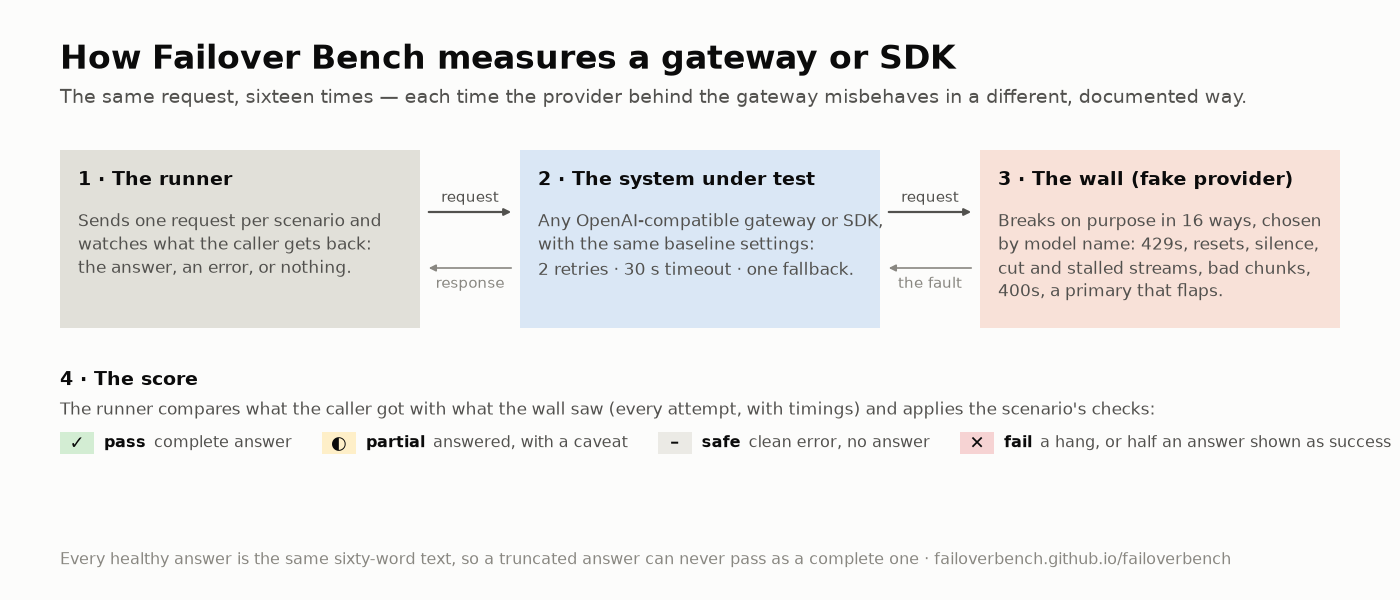
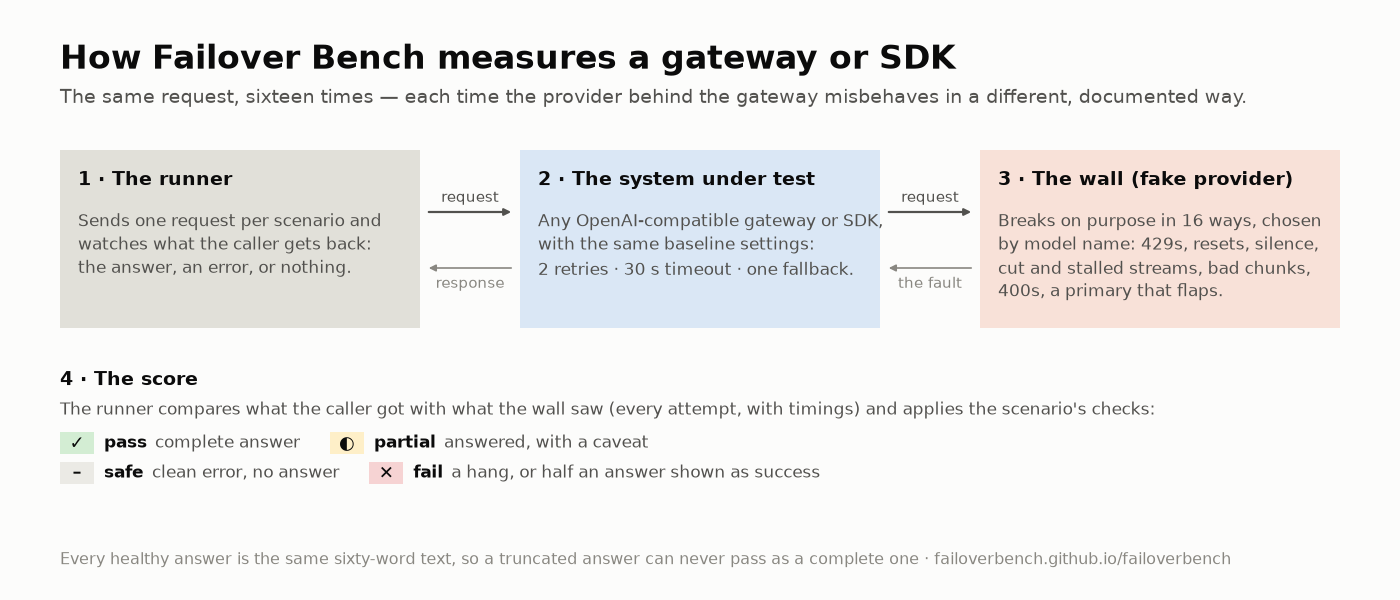
chart: measured layout; og:image is the explainer
Claude-Session: https://claude.ai/code/session_01T7EoP4NsJTux1cUPvqUQk8

Changed region(s): [[0.0614, 0.72, 0.5836, 0.81], [0.4914, 0.72, 1.0, 0.78]]

diff --git a/docs/index.html b/docs/index.html
@@ -2,7 +2,7 @@
 <title>Failover Bench — scorecard 2026-09-12</title>
 <meta property='og:title' content='Failover Bench — scorecard 2026-09-12'>
 <meta property='og:description' content='How LLM gateways and SDKs behave when the provider behind them misbehaves: sixteen documented faults, one fake provider, every result reproducible with one command.'>
-<meta property='og:image' content='https://failoverbench.github.io/failoverbench/scorecard.png'>
+<meta property='og:image' content='https://failoverbench.github.io/failoverbench/how-it-works.png'>
 <meta name='twitter:card' content='summary_large_image'>
 <link rel='preconnect' href='https://fonts.googleapis.com'>
 <link rel='stylesheet' href='https://fonts.googleapis.com/css2?family=Barlow+Condensed:wght@600;700&family=IBM+Plex+Sans:wght@400;600&family=IBM+Plex+Mono&display=swap'>
@@ -1219,5 +1219,5 @@ a{color:var(--accent-ink)}footer{margin-top:40px;padding-top:14px;border-top:1px
 <li>wall log: 0.00s fb-s16-503-persistent #1 -&gt; 503; 0.60s fb-s16-503-persistent #2 -&gt; 503; 1.75s fb-s16-503-persistent #3 -&gt; 503; 1.75s fb-ok #1 -&gt; 200 stream</li>
 </ul>
 </details>
-<footer>Results CC BY 4.0 · harness MIT · generated 2026-09-12 20:32 UTC from results/full · <a href='https://github.com/failoverbench/failoverbench/blob/main/METHODOLOGY.md'>methodology</a> · <a href='https://github.com/failoverbench/failoverbench/tree/main/results/full'>raw results</a></footer>
+<footer>Results CC BY 4.0 · harness MIT · generated 2026-09-12 20:45 UTC from results/full · <a href='https://github.com/failoverbench/failoverbench/blob/main/METHODOLOGY.md'>methodology</a> · <a href='https://github.com/failoverbench/failoverbench/tree/main/results/full'>raw results</a></footer>
 </div></body></html>

diff --git a/failoverbench/charts.py b/failoverbench/charts.py
@@ -90,7 +90,7 @@ SHORT = [  # (regex on system name, two-line column header)
     (r"^reference$", "Reference\nclient"),
     (r"^direct$", "No\ngateway\n(control)"),
     (r"^bifrost$", "Bifrost"),
-    (r"^dsh$", "DeepSeek\nHarness +\nplugin"),
+    (r"^dsh$", "DeepSeek\nHarness\n+ plugin"),
     (r"^langchain$", "LangChain\nfallbacks"),
     (r"^litellm-proxy$", "LiteLLM\nproxy"),
     (r"^litellm-router$", "LiteLLM\nRouter"),
@@ -141,9 +141,18 @@ def scorecard_png(results_dir: str, profile: str, catalogue_path: str, out: str,
         sent = _sentence_with(d["system"].get("notes") or "", "not scored here")
         if sent:
             notes.append(f"{_short(d['system']['name'], d['system']['label']).replace(chr(10), ' ')}: {sent}")
-    W = 1200
+    W = 1400
     probe = plt.figure(figsize=(W / 100, 1), dpi=100)
     note_lines = [_wrap(probe, n, 11.5, W - 120) for n in notes[:3]]
+    # Geometry is measured, never assumed: the label column fits the longest scenario title
+    # with a full margin, and the header font steps down until every line clears its column.
+    row_fs, head_fs, margin, pad = 12.0, 11.0, 60.0, 10.0
+    label_w = max(_measure(probe, f"{sc['id']}  {sc['title']}", row_fs) for sc in cat["scenarios"])
+    left = margin + label_w + 16
+    cw = (W - left - margin) / len(full)
+    heads = [_short(d["system"]["name"], d["system"]["label"]) for d in full]
+    while head_fs > 8.5 and max(_measure(probe, ln, head_fs) for h in heads for ln in h.split("\n")) > cw - pad:
+        head_fs -= 0.5
     plt.close(probe)
     n_lines = sum(len(x) for x in note_lines)
     notes_start = 268 + len(ids) * 54 + 18 + 70 + 34 + 4 * 30 + 24   # header + grid + totals + legend
@@ -155,24 +164,23 @@ def scorecard_png(results_dir: str, profile: str, catalogue_path: str, out: str,
     T = lambda x, y, s, **k: ax.text(x, y, s, **{**FONT, **k})  # noqa: E731
 
     # header
-    T(60, 78, "Failover Bench scorecard" + (f" — {edition}" if edition else ""), fontsize=30, fontweight="semibold", color=INK["primary"], va="center")
+    T(60, 78, "Failover Bench scorecard" + (f" — {edition}" if edition else ""), fontsize=30, fontweight="bold", color=INK["primary"], va="center")
     T(60, 122, f"{len(ids)} ways a provider can break × {len(full)} gateways and SDKs — one fake provider, one baseline setup",
       fontsize=14, color=INK["secondary"], va="center")
     T(60, 148, f"2 retries · 30 s timeout · one fallback · methodology v{cat.get('version')} · results as of {date_text} · "
       f"one-command repro and raw log for every cell", fontsize=12.5, color=INK["muted"], va="center")
 
     # grid geometry
-    left, top = 356, 268
-    ncol, nrow = len(names), len(ids)
-    cw, ch, gap = (W - left - 60) / ncol, 54, 2
+    top, nrow = 268, len(ids)
+    ch, gap = 54, 2
     # column headers (up to three short lines, bottom-aligned to the grid)
     for j, n in enumerate(names):
         cx = left + j * cw + cw / 2
-        T(cx, top - 14, _short(n, full[j]["system"]["label"]), fontsize=11, color=INK["primary"], ha="center", va="bottom", linespacing=1.15)
+        T(cx, top - 14, heads[j], fontsize=head_fs, color=INK["primary"], ha="center", va="bottom", linespacing=1.15)
     # rows
     for i, sid in enumerate(ids):
         y = top + i * ch
-        T(left - 16, y + ch / 2, f"{sid}  {titles[sid]}", fontsize=12, color=INK["primary"], ha="right", va="center")
+        T(left - 16, y + ch / 2, f"{sid}  {titles[sid]}", fontsize=row_fs, color=INK["primary"], ha="right", va="center")
         for j, n in enumerate(names):
             r = by[n].get(sid)
             v = r["verdict"] if r else "na"
@@ -183,8 +191,8 @@ def scorecard_png(results_dir: str, profile: str, catalogue_path: str, out: str,
                 T(x + cw / 2, y + ch / 2 + 1, glyph, fontsize=17, color=INK["primary"], ha="center", va="center", fontweight="bold")
     # totals row
     ty = top + nrow * ch + 18
-    ax.plot([left, W - 60], [ty - 8, ty - 8], color=INK["axis"], linewidth=1)
-    T(left - 16, ty + 16, "pass · partial · safe · fail", fontsize=11, color=INK["muted"], ha="right", va="center")
+    ax.plot([left, W - margin], [ty - 8, ty - 8], color=INK["axis"], linewidth=1)
+    T(left - 16, ty + 16, "pass · partial · safe · fail", fontsize=10.5, color=INK["muted"], ha="right", va="center")
     for j, n in enumerate(names):
         sm = full[j]["summary"]
         T(left + j * cw + cw / 2, ty + 16, f"{sm['pass']}·{sm['partial']}·{sm['safe']}·{sm['fail']}", fontsize=11,
@@ -192,13 +200,13 @@ def scorecard_png(results_dir: str, profile: str, catalogue_path: str, out: str,
 
     # legend
     ly = ty + 70
-    T(60, ly, "How to read a cell", fontsize=13, fontweight="semibold", color=INK["primary"], va="center")
+    T(60, ly, "How to read a cell", fontsize=13, fontweight="bold", color=INK["primary"], va="center")
     for k, v in enumerate(["pass", "partial", "safe", "fail"]):
         glyph, tint, chip, word, meaning = VERDICT[v]
         yy = ly + 34 + k * 30
         ax.add_patch(Rectangle((60, yy - 11), 34, 22, facecolor=tint, edgecolor="none"))
         T(77, yy + 1, glyph, fontsize=13, color=INK["primary"], ha="center", va="center", fontweight="bold")
-        T(108, yy, word, fontsize=13, fontweight="semibold", color=INK["primary"], va="center")
+        T(108, yy, word, fontsize=13, fontweight="bold", color=INK["primary"], va="center")
         T(190, yy, meaning, fontsize=13, color=INK["secondary"], va="center")
 
     # footnotes
@@ -261,7 +269,7 @@ def timeline_png(scenario_id: str, docs: list[dict], catalogue_path: str, out: s
     ax = fig.add_axes([0, 0, 1, 1]); ax.set_xlim(0, W); ax.set_ylim(H, 0); ax.axis("off")
     T = lambda x, y, s, **k: ax.text(x, y, s, **{**FONT, **k})  # noqa: E731
 
-    T(60, 62, headline or f"{scenario_id}: {sc['title']}", fontsize=24, fontweight="semibold", color=INK["primary"], va="center")
+    T(60, 62, headline or f"{scenario_id}: {sc['title']}", fontsize=24, fontweight="bold", color=INK["primary"], va="center")
     T(60, 100, f"{scenario_id} · {sc['fault']}", fontsize=13.5, color=INK["secondary"], va="center")
 
     px0, px1 = 330, W - 60
@@ -288,7 +296,7 @@ def timeline_png(scenario_id: str, docs: list[dict], catalogue_path: str, out: s
         m = r["metrics"]; v = r["verdict"]
         first, _, rest = label.partition("\n")
         two = bool(rest)
-        T(px0 - 18, y - (26 if two else 12), first, fontsize=13.5, fontweight="semibold", color=INK["primary"], ha="right", va="center")
+        T(px0 - 18, y - (26 if two else 12), first, fontsize=13.5, fontweight="bold", color=INK["primary"], ha="right", va="center")
         if two:
             T(px0 - 18, y - 6, rest, fontsize=12, color=INK["secondary"], ha="right", va="center")
         outcome = {"pass": "complete answer", "partial": "answered, with a caveat", "safe": "clean error, no answer",
@@ -303,15 +311,15 @@ def timeline_png(scenario_id: str, docs: list[dict], catalogue_path: str, out: s
             if s_["kind"] == "wait":  # label above the bar, anchored at its start
                 T(x0 + 2, y - 24, s_["label"], fontsize=11.5, color=INK["secondary"], ha="left", va="center")
             else:  # the outcome: to the right of the bar end, in primary ink
-                T(x1 + 8, y + 1, s_["label"], fontsize=12, color=INK["primary"], ha="left", va="center", fontweight="semibold")
+                T(x1 + 8, y + 1, s_["label"], fontsize=12, color=INK["primary"], ha="left", va="center", fontweight="bold")
         if m["outcome"] != "success":
             xe = xs(float(m["elapsed_s"]))
             ax.plot([xe, xe], [y - 18, y + 18], color=STATUS["critical"], linewidth=2.5, zorder=3)
             txt = f"client gave up · {float(m['elapsed_s']):.0f} s"
-            if xe + 9 + _measure(fig, txt, 12, "semibold") <= px1 + 30:
-                T(xe + 9, y + 1, txt, fontsize=12, color=INK["primary"], ha="left", va="center", fontweight="semibold")
+            if xe + 9 + _measure(fig, txt, 12, "bold") <= px1 + 30:
+                T(xe + 9, y + 1, txt, fontsize=12, color=INK["primary"], ha="left", va="center", fontweight="bold")
             else:
-                T(xe - 8, y + 26, txt, fontsize=12, color=INK["primary"], ha="right", va="center", fontweight="semibold")
+                T(xe - 8, y + 26, txt, fontsize=12, color=INK["primary"], ha="right", va="center", fontweight="bold")
 
     # legend (measured widths, no overlap)
     ly = base_y + 76
@@ -340,7 +348,7 @@ def explainer_png(out: str, n_faults: int = 16) -> str:
     fig.patch.set_facecolor(SURFACE)
     ax = fig.add_axes([0, 0, 1, 1]); ax.set_xlim(0, W); ax.set_ylim(H, 0); ax.axis("off")
     T = lambda x, y, s, **k: ax.text(x, y, s, **{**FONT, **k})  # noqa: E731
-    T(60, 60, "How Failover Bench measures a gateway or SDK", fontsize=24, fontweight="semibold", color=INK["primary"], va="center")
+    T(60, 60, "How Failover Bench measures a gateway or SDK", fontsize=24, fontweight="bold", color=INK["primary"], va="center")
     T(60, 98, "The same request, sixteen times — each time the provider behind the gateway misbehaves in a different, documented way.",
       fontsize=13.5, color=INK["secondary"], va="center")
 
@@ -352,7 +360,7 @@ def explainer_png(out: str, n_faults: int = 16) -> str:
     bw, bh, by = 360, 178, 150
     for x, title, body, fill in boxes:
         ax.add_patch(Rectangle((x, by), bw, bh, facecolor=fill, edgecolor="none"))
-        T(x + 18, by + 30, title, fontsize=14, fontweight="semibold", color=INK["primary"], va="center")
+        T(x + 18, by + 30, title, fontsize=14, fontweight="bold", color=INK["primary"], va="center")
         T(x + 18, by + 60, body, fontsize=12, color=INK["secondary"], va="top", linespacing=1.4)
     # arrows (request goes right, what came back goes left)
     for x0, x1 in ((420, 520), (880, 980)):
@@ -364,24 +372,36 @@ def explainer_png(out: str, n_faults: int = 16) -> str:
 
     # scoring strip
     sy = by + bh + 52
-    T(60, sy, "4 · The score", fontsize=14, fontweight="semibold", color=INK["primary"], va="center")
+    T(60, sy, "4 · The score", fontsize=14, fontweight="bold", color=INK["primary"], va="center")
     T(60, sy + 30, "The runner compares what the caller got with what the wall saw (every attempt, with timings) and applies the scenario's checks:",
       fontsize=12.5, color=INK["secondary"], va="center")
-    x = 60
-    fs = 12.5
-    total = sum(44 + _measure(fig, VERDICT[v][3], fs, "semibold") + 8 + _measure(fig, {"pass": "complete answer", "partial": "answered, with a caveat",
-                "safe": "clean error, no answer", "fail": "a hang, or half an answer shown as success"}[v], fs) + 30 for v in ("pass", "partial", "safe", "fail"))
-    if total > W - 120:
-        fs = 11.5
-    for v in ("pass", "partial", "safe", "fail"):
-        glyph, tint, chip, word, meaning = VERDICT[v]
-        ax.add_patch(Rectangle((x, sy + 52), 34, 22, facecolor=tint, edgecolor="none"))
-        T(x + 17, sy + 64, glyph, fontsize=13, color=INK["primary"], ha="center", va="center", fontweight="bold")
-        T(x + 44, sy + 63, word, fontsize=fs, fontweight="semibold", color=INK["primary"], va="center")
-        short = {"pass": "complete answer", "partial": "answered, with a caveat", "safe": "clean error, no answer",
-                 "fail": "a hang, or half an answer shown as success"}[v]
-        T(x + 44 + _measure(fig, word, fs, "semibold") + 8, sy + 63, short, fontsize=fs, color=INK["secondary"], va="center")
-        x += 44 + _measure(fig, word, fs, "semibold") + 8 + _measure(fig, short, fs) + 30
+    fs, gap_x = 12.5, 30
+    SHORTS = {"pass": "complete answer", "partial": "answered, with a caveat", "safe": "clean error, no answer",
+              "fail": "a hang, or half an answer shown as success"}
+    widths = {v: 44 + _measure(fig, VERDICT[v][3], fs, "bold") + 8 + _measure(fig, SHORTS[v], fs) for v in SHORTS}
+    order = ("pass", "partial", "safe", "fail")
+    fits = lambda row: sum(widths[v] for v in row) + gap_x * (len(row) - 1) <= W - 120  # noqa: E731
+    if fits(order):
+        rows = [list(order)]
+    elif fits(order[:2]) and fits(order[2:]):
+        rows = [list(order[:2]), list(order[2:])]   # two balanced rows read better than 3 + 1
+    else:
+        rows, cur = [], []
+        for v in order:
+            if cur and not fits(cur + [v]):
+                rows.append(cur); cur = []
+            cur.append(v)
+        rows.append(cur)
+    for ri, row in enumerate(rows):
+        x, y = 60, sy + 52 + ri * 30
+        for v in row:
+            glyph, tint, chip, word, meaning = VERDICT[v]
+            ax.add_patch(Rectangle((x, y), 34, 22, facecolor=tint, edgecolor="none"))
+            T(x + 17, y + 12, glyph, fontsize=13, color=INK["primary"], ha="center", va="center", fontweight="bold")
+            T(x + 44, y + 11, word, fontsize=fs, fontweight="bold", color=INK["primary"], va="center")
+            T(x + 44 + _measure(fig, word, fs, "bold") + 8, y + 11, SHORTS[v], fontsize=fs, color=INK["secondary"], va="center")
+            x += widths[v] + gap_x
+
     T(60, H - 40, "Every healthy answer is the same sixty-word text, so a truncated answer can never pass as a complete one · "
       "failoverbench.github.io/failoverbench", fontsize=11.5, color=INK["muted"], va="center")
     fig.savefig(out, dpi=100, facecolor=SURFACE)

diff --git a/failoverbench/site.py b/failoverbench/site.py
@@ -77,7 +77,7 @@ def render_site(results_dir: str, profile: str, catalogue_path: str, repo_url: s
            f"<title>Failover Bench — scorecard {esc(run_date)}</title>",
            f"<meta property='og:title' content='Failover Bench — scorecard {esc(run_date)}'>",
            "<meta property='og:description' content='How LLM gateways and SDKs behave when the provider behind them misbehaves: sixteen documented faults, one fake provider, every result reproducible with one command.'>",
-           f"<meta property='og:image' content='{esc(site_url.rstrip('/'))}/scorecard.png'>",
+           f"<meta property='og:image' content='{esc(site_url.rstrip('/'))}/how-it-works.png'>",  # 1400x600 survives a link-preview crop; the grid is tall and would not
            "<meta name='twitter:card' content='summary_large_image'>",
            "<link rel='preconnect' href='https://fonts.googleapis.com'>",
            "<link rel='stylesheet' href='https://fonts.googleapis.com/css2?family=Barlow+Condensed:wght@600;700&family=IBM+Plex+Sans:wght@400;600&family=IBM+Plex+Mono&display=swap'>",

diff --git a/CHANGELOG.md b/CHANGELOG.md
@@ -3,7 +3,7 @@
 Next scorecard: **Monday 5 October 2026** (methodology v0.1, profile `full`).
 
 ## 2026-09-08 — 0.2.0 (unreleased)
-- Shareable images: `chart scorecard` (the grid as a PNG, glyph + colour per cell), `chart timeline` (one scenario, one or more runs, as bars on a seconds axis from the wall's log), `chart explainer` (how a measurement works). `site` writes the first two into docs/ when matplotlib is installed (`.[charts]`) and sets `og:image` so link previews show the grid.
+- Shareable images: `chart scorecard` (the grid as a PNG, glyph + colour per cell), `chart timeline` (one scenario, one or more runs, as bars on a seconds axis from the wall's log), `chart explainer` (how a measurement works). `site` writes the scorecard and the explainer into docs/ when matplotlib is installed (`.[charts]`) and points `og:image` at the explainer, which keeps its shape in a link preview where the tall grid would be cropped.
 - Public scorecard page: `python -m failoverbench site` → docs/index.html, published with GitHub Pages at https://failoverbench.github.io/failoverbench/.
 - The shared client treats an in-band SSE error event (a gateway that already sent 200 and partial content) as the error it is, never as a truncated success; regression test added. The LiteLLM proxy row was re-run: its four stream cells moved from fail to safe, matching the in-process Router.
 - S06 scored as *unbounded* rather than *hang* when a system retries a silent provider (max_wall_s 60 → 130); catalogue reworded.
